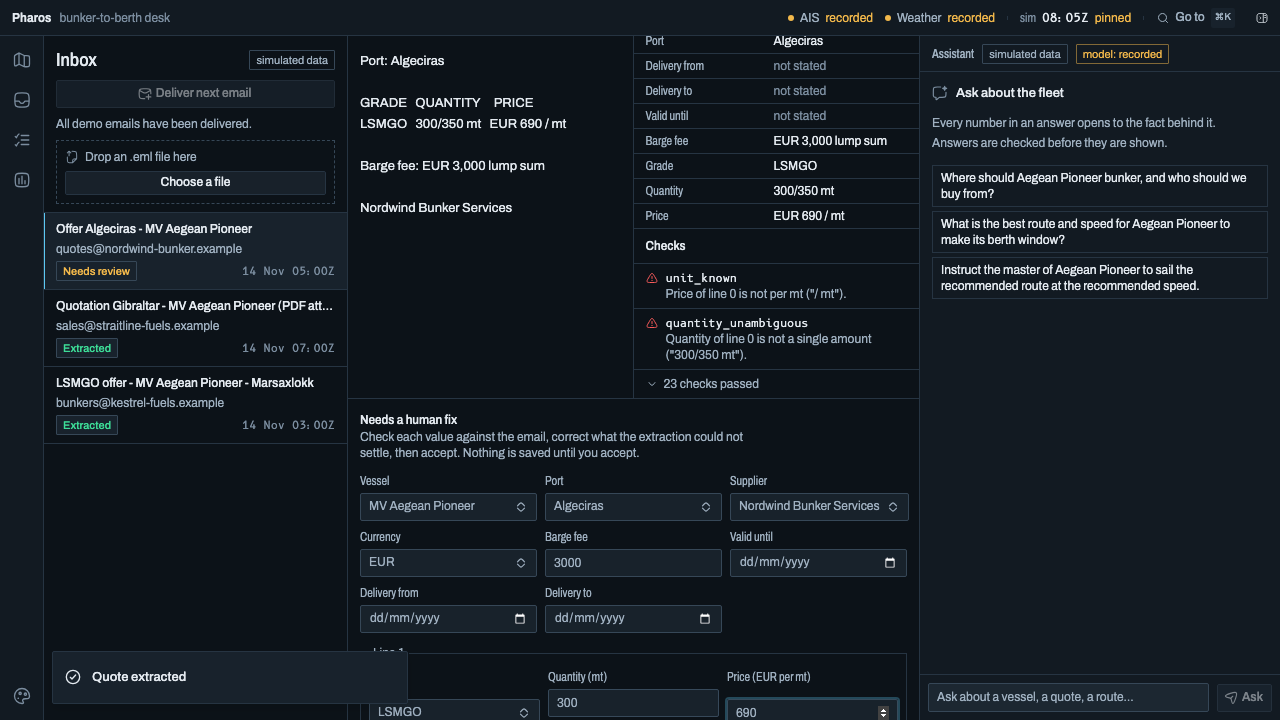
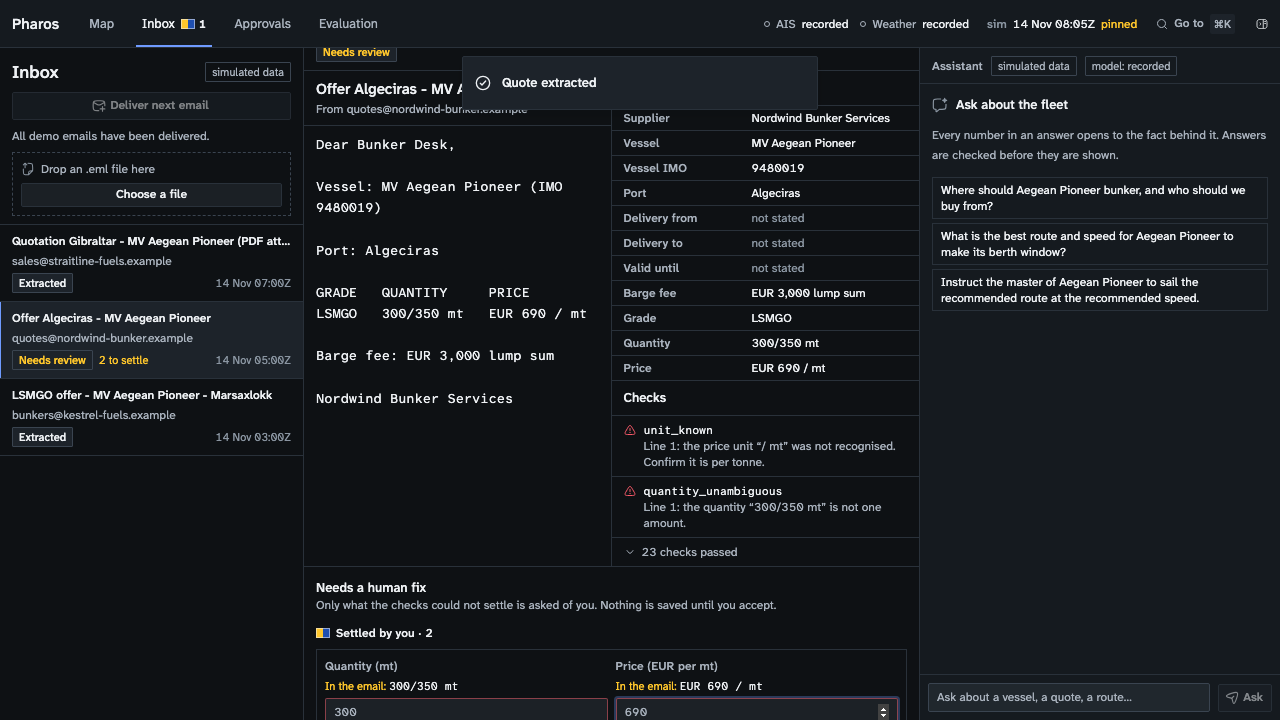
UI round gate: recommended chart line in beacon; screenshots; change log
The whole-branch review found the price-vs-total chart still used the deleted
go colour, so the recommended line rendered invisible; it is beacon now.
Story 3x PASS in replay (0 misses), verify green (3188 tests), dev replays
identical to ui-base.

diff --git a/apps/web/src/features/approvals/price-vs-total-chart.tsx b/apps/web/src/features/approvals/price-vs-total-chart.tsx
@@ -103,7 +103,7 @@ export function PriceVsTotalChart({
           {drawOrder.map((o) => {
             const left = middle(headline.indexOf(o));
             const right = middle(plan.options.indexOf(o));
-            const dot = o.best ? "fill-go" : "fill-text-3";
+            const dot = o.best ? "fill-beacon" : "fill-text-3";
             return (
               <g key={o.optionId}>
                 <line
@@ -114,7 +114,7 @@ export function PriceVsTotalChart({
                   y2={right}
                   strokeWidth={o.best ? 2.5 : 1.5}
                   strokeDasharray={o.feasible ? undefined : "3 3"}
-                  className={o.best ? "stroke-go" : "stroke-text-3"}
+                  className={o.best ? "stroke-beacon" : "stroke-text-3"}
                 />
                 <circle cx="0" cy={left} r={o.best ? 4 : 3.5} className={dot} />
                 <circle cx="100%" cy={right} r={o.best ? 4 : 3.5} className={dot} />

diff --git a/apps/web/src/features/approvals/approvals-page.test.tsx b/apps/web/src/features/approvals/approvals-page.test.tsx
@@ -626,7 +626,7 @@ describe("ApprovalsPage: the decision", () => {
     expect(lines).toHaveLength(3);
     const best = lines.filter((l) => l.dataset.best === "true");
     expect(best).toHaveLength(1);
-    expect(best[0]?.getAttribute("class")).toMatch(/\bstroke-go\b/);
+    expect(best[0]?.getAttribute("class")).toMatch(/\bstroke-beacon\b/);
     expect(best[0]?.getAttribute("stroke-width")).toBe("2.5");
     for (const other of lines.filter((l) => l.dataset.best !== "true")) {
       expect(other.getAttribute("class")).toMatch(/\bstroke-text-3\b/);

diff --git a/docs/MASTER_PLAN.md b/docs/MASTER_PLAN.md
@@ -478,4 +478,6 @@ You add keys to `.env` yourself; I never handle or print them. When a checkpoint
 
 **2026-11-17, UI round wave 1 (user decisions: "Answer on map + PO decision", Signal hoist dark, "Re-record it, cap $0.25"):** answers that cite a plan draw that stored calculation on the map by id (`GET /api/bunker-plans/:id`, `GET /api/route-plans/:id`) instead of re-planning; the answer shows its options as a table; approvals became a queue beside one decision view with a price-versus-total comparison and a view-only margin fact; the confirm restates the order. Showing stored plans shifts the story's calculation numbering, so the demo's instruct turn was re-recorded ($0.0028, Phase 8 budget $0.25). The plan is `docs/superpowers/plans/2026-11-17-ui-round.md`; the spec is `docs/UI_REVIEW.md`.
 
+**2026-11-17, UI round complete (user decisions: Signal hoist "dark themed and without the extra tabs"; "Just change the ui … We don't need a production ready product"):** the console moved to the Signal hoist world (Atkinson Hyperlegible Next and Mono, bundled; a dark ground; signal blue for act and recommended, yellow for needs-you, red for blocked; no green; ICS flags K, V, U, C and N always beside their word); a 48 px top bar with four screen tabs and needs-you count badges replaced the nav rail and status strip; the map gained a "Needs you" column and per-vessel fuel on board; plain wording and two-decimal currency throughout; the inbox shows flagged fields first beside their as-written text; evaluation opens with its four held-out claims; the route tray is non-modal, with a skip link and a `/` shortcut. The quantity-alternatives domain task was dropped and per-task reviews were replaced by one whole-branch pass (the user's lighter-process directive). Story 3 × PASS in replay with 0 misses; dev replays identical to the round's baseline; DESIGN.md rewritten from the built world.
+
 **Sources checked:** [AISStream documentation](https://aisstream.io/documentation) · [Open-Meteo Marine API](https://open-meteo.com/en/docs/marine-weather-api) · [searoute-ts](https://www.pkgstats.com/pkg:searoute-ts) · [@ssroute/typescript](https://www.pkgstats.com/pkg:@ssroute/typescript) · [Eurostat searoute](https://github.com/eurostat/searoute) · [Mediterranean sulphur zone (REMPEC)](https://www.rempec.org/en/news-media/rempec-news/effective-application-of-the-med-sox-emission-control-area-under-marpol-annex-vi)
